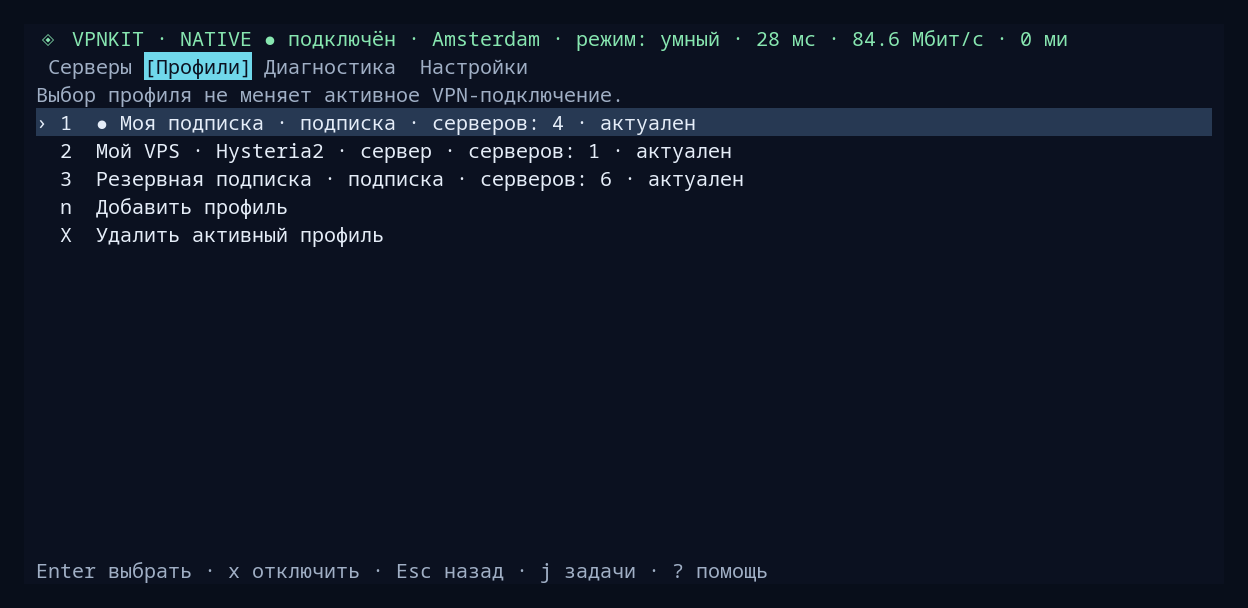
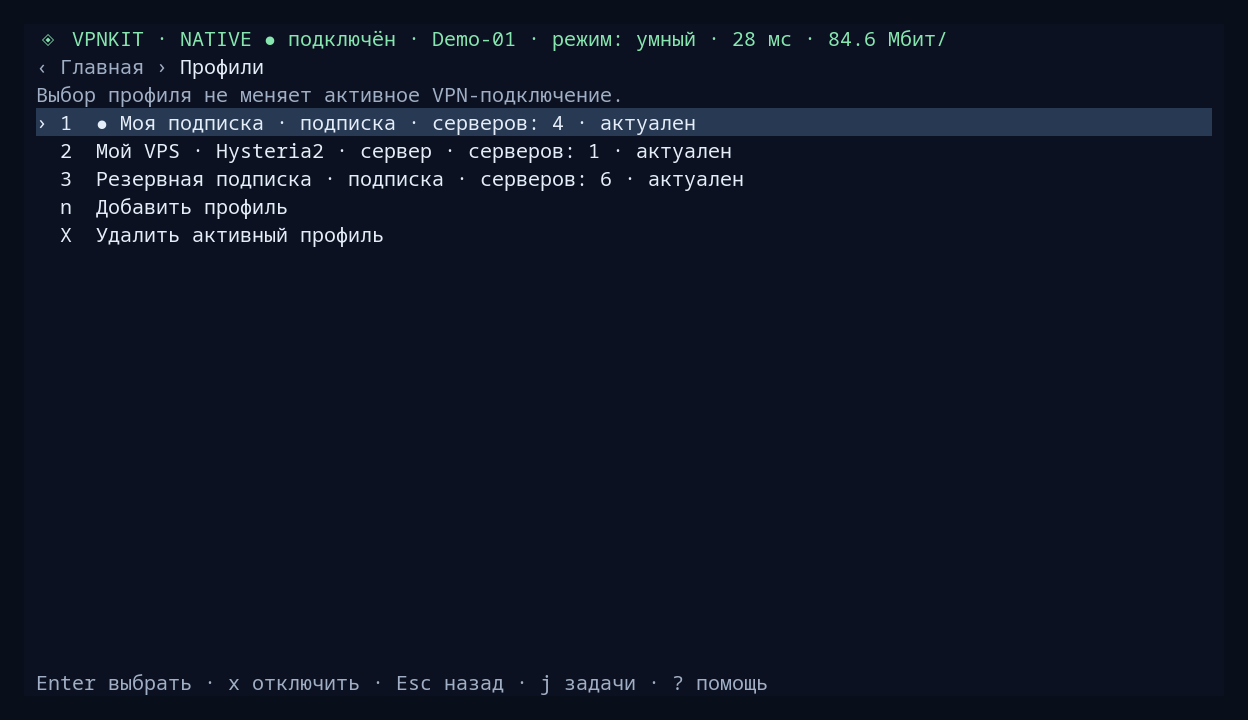
docs: update TUI navigation and screenshots

diff --git a/scripts/vpnkit/tui/capture-readme.ts b/scripts/vpnkit/tui/capture-readme.ts
@@ -1,6 +1,7 @@
 // Render the real App with public demonstration data; never opens a backend.
-// bun capture-readme.ts OUTPUT_DIRECTORY, then python3 ../../../docs/render-tui-captures.py OUTPUT_DIRECTORY
-import { mkdir } from "node:fs/promises";
+// bun capture-readme.ts OUTPUT_DIRECTORY [PNG_DIRECTORY]
+import { copyFile, mkdir, readFile } from "node:fs/promises";
+import { resolve } from "node:path";
 import { createTestRenderer } from "@opentui/core/testing";
 import { App } from "./app";
 import type { Backend, Reply, Server, Status } from "./bridge";
@@ -9,7 +10,7 @@ if (!output) throw new Error("Expected capture output directory");
 await mkdir(output, { recursive: true });
 const status: Status = { runtime:"native", installed:true, vpn_state:"active", gateway_state:"healthy", subscription:"configured", routing_mode:"smart", networkmanager_configured:"yes", networkmanager_active:"yes", diagnostics:"ok" };
 const servers: Server[] = [
-  ["Amsterdam", 28, 84.6], ["Frankfurt", 35, 72.3], ["Helsinki", 42, 61.8], ["Tokyo", 186, 39.4],
+  ["Demo-01", 28, 84.6], ["Demo-02", 35, 72.3], ["Demo-03", 42, 61.8], ["Demo-04", 186, 39.4],
 ].map(([name, latency, speed], i) => ({ profile_id:"demo-subscription", server_id:`srv_${String(i+1).repeat(27)}`, display_name:String(name), selected:i===0, status:"ready", ping_status:"ready", availability:"ready", latency_ms:Number(latency), download_mbps:Number(speed), download_seconds:3 }));
 const profiles: NonNullable<Reply["profiles"]> = { active:"demo-subscription", items:[
   {id:"demo-subscription",name:"Моя подписка",kind:"subscription",count:4,stale:false},
@@ -21,19 +22,34 @@ const backend: Backend = {
     ...(action.startsWith("servers/") ? {catalog:{status:"ok",servers}} : {})}; },
   async close() {},
 };
-const t = await createTestRenderer({width:100,height:32});
+const t = await createTestRenderer({width:100,height:20});
 const app = new App(t.renderer,backend);
 try {
+  app.target = "";
   await app.perform("status");
   await app.perform("profiles/list");
   await app.perform("servers/list");
-  for (const [name, key] of [["home", ""], ["servers", "v"], ["profiles", "c"]]) {
+  for (const server of app.servers) Object.assign(server, servers.find(item => item.server_id === server.server_id));
+  app.notice = "";
+  app.paint();
+  for (const [name, key] of [["home", ""], ["servers", "v"], ["server-menu", ""], ["profiles", "c"]]) {
     if (name === "profiles") { t.mockInput.pressEscape(); await Bun.sleep(30); }
-    if (key) { t.resize(100, 20); t.mockInput.pressKey(key); }
+    if (key) { t.resize(100, 24); t.mockInput.pressKey(key); }
     await Bun.sleep(40);
-    if (name === "servers") { t.mockInput.pressKey("t"); await Bun.sleep(50); }
+    if (name === "server-menu") { t.mockInput.pressEnter(); await Bun.sleep(40); }
     await t.renderOnce();
     const frame = t.captureSpans();
     await Bun.write(`${output}/${name}.json`, JSON.stringify({ ...frame, lines:frame.lines.map(line => ({spans:line.spans.map(span => ({...span,fg:span.fg.toInts(),bg:span.bg.toInts()}))})) }));
   }
 } finally { await app.close(); }
+
+// Reuse the repository's captureSpans rasterizer for all four frames.
+const rasterizer = await readFile(resolve(import.meta.dir, "../../../docs/render-tui-captures.py"), "utf8");
+const script = rasterizer.replace('("home", "servers", "profiles")', '("home", "servers", "server-menu", "profiles")');
+const result = Bun.spawnSync(["python3", "-c", script, output, "/usr/share/fonts/noto/NotoSansMono-Regular.ttf"], { stdout: "inherit", stderr: "inherit" });
+if (result.exitCode !== 0) throw new Error(`Capture rasterizer failed: ${result.exitCode}`);
+if (process.argv[3]) {
+  await mkdir(process.argv[3], { recursive: true });
+  for (const name of ["home", "servers", "server-menu", "profiles"])
+    await copyFile(`${output}/${name}.png`, `${process.argv[3]}/${name}.png`);
+}

diff --git a/docs/guide.ru.md b/docs/guide.ru.md
@@ -78,10 +78,12 @@ cd local-vpn-kde
 
 ## Первое подключение
 
-1. Нажмите `c` и добавьте первую подписку или одиночную ссылку на сервер. После настройки установленного native `c` открывает профили; их вкладка доступна и через `Tab`.
-2. Откройте **Серверы** (`v`). Для новой подписки обновите список (`r`), затем выберите и примените сервер.
-3. При желании проверьте задержку, сайт или скорость в списке серверов.
-4. Запустите службу, если она остановлена, затем выберите **Подключить VPN** (`s`).
+После запуска открывается главный экран с плитками «Подключение», «Серверы», «Замеры», «Профили», «Диагностика» и «Настройки». Стрелками выберите плитку, `Enter` открывает раздел или выполняет действие подключения; `Esc` возвращает из раздела на главный экран. Вложенные окна и меню сначала закрываются по `Esc`; в таблице серверов эта клавиша сначала очищает фильтр. Строка навигации показывает путь к разделу; `Tab` / `Shift+Tab` переключают разделы «Серверы», «Профили», «Диагностика» и «Настройки».
+
+1. Нажмите `c` и добавьте первую подписку или одиночную ссылку на сервер. После настройки установленного native `c` открывает профили.
+2. Если служба остановлена, запустите её через плитку **Подключение** или `s`. Откройте **Серверы** (`v`); при необходимости обновите список (`r`).
+3. Выберите строку стрелками и нажмите `Enter`. В меню можно проверить ping и сайт, скорость или открыть подробности. Выберите **Выбрать сервер** и подтвердите выбор: по умолчанию выбрано «Нет», стрелки влево/вправо перемещают между кнопками.
+4. Вернитесь на главный экран и выберите **Подключение** или нажмите `s` для подключения VPN.
 
 **«Служба готова» ещё не означает «VPN подключён».** Служба может работать для проверок, пока системное подключение выключено.
 
@@ -91,24 +93,24 @@ cd local-vpn-kde
 | :---: | :--- |
 | `s` / `x` | Запустить службу или подключить VPN / отключить VPN, в зависимости от состояния |
 | `v` | Серверы и их проверки |
-| `c` | Профили в установленном native с настроенной подпиской; иначе редактор подписки |
+| `c` | Профили в установленном native с настроенной подпиской; иначе редактор подписки, если он доступен |
 | `m` | Строгий / умный режим |
 | `a` | Настройки автозапуска |
 | `d` | Диагностика |
 | `i` | Настройки |
-| `Tab` / `Shift+Tab` | Следующая / предыдущая вкладка |
+| `Tab` / `Shift+Tab` | Следующий / предыдущий раздел из четырёх перечисленных выше |
 | `/` | Фильтр имён; `Enter` сохраняет, `Esc` очищает |
 | `p` / `t` | Ping и сайт / скорость и сайт показанных серверов |
-| `T` / `b` | Проверить сервер под курсором / предложить самый быстрый измеренный из показанных |
+| `T` / `b` | Проверить скорость сервера под курсором / предложить самый быстрый измеренный из показанных с подтверждением |
 | `o` / `[` / `]` / `\` | Следующая сортировка / выбрать столбец / обратить направление |
 | `l` | Сведения о сервере под курсором |
 | `:` / `Ctrl+P` | Поиск команд |
 | `j` / `k` | Задачи / отмена операции |
 | `X` | Удалить активный профиль с подтверждением |
-| `z` | Остановить native-службу вместе с VPN |
-| `Esc` / `q` | Назад / выйти из интерфейса |
+| `z` | Остановить службу или Docker вместе с VPN после подтверждения |
+| `?` / `q` | Справка / выход из интерфейса |
 
-Таблица серверов открывается первой; строка состояния показывает выбранный сервер, а нижняя строка — доступные клавиши. Стрелки перемещают курсор, `Enter` выбирает пункт, `?` открывает справку. `a` открывает автозапуск и не выполняет ping. Проверки могут пересекаться или ожидать в очереди; `j` показывает выполняющиеся, ожидающие и завершённые операции. Доступные действия зависят от состояния службы.
+Строка состояния показывает выбранный сервер, а нижняя строка — доступные клавиши. `a` открывает автозапуск и не выполняет ping. Проверки могут пересекаться или ожидать в очереди; `j` показывает выполняющиеся, ожидающие и завершённые операции. Доступные действия и сочетания зависят от раздела и состояния службы.
 
 Настройки автозапуска применяются при следующем входе в KDE. Можно запускать только шлюз либо шлюз с подключением VPN. Отключение автозапуска не разрывает текущее соединение; TUI при входе автоматически не открывается. У Docker уже работающий шлюз также может перезапускаться согласно политике контейнера.
 

diff --git a/README.md b/README.md
@@ -10,7 +10,7 @@ VPN для Linux и KDE · NetworkManager · Native и Docker
 
 </div>
 
-![Главный экран: подключение, умный режим и управление VPN](docs/images/home.png)
+![Главный экран с шестью плитками](docs/images/home.png)
 
 Подписки и одиночные **VLESS / Hysteria2** ссылки, отдельные списки серверов, строгий и умный роутинг, автозапуск и диагностика — из одного TUI.
 
@@ -19,6 +19,8 @@ VPN для Linux и KDE · NetworkManager · Native и Docker
 Проверьте задержку, скорость и доступность нужного сайта перед подключением.
 
 ![Список серверов с результатами проверок](docs/images/servers.png)
+
+![Меню действий для выбранной строки сервера](docs/images/server-menu.png)
 
 Собственная VPS и несколько подписок могут жить рядом. Выбор профиля меняет список серверов; подключение VPN — отдельное действие.
 
@@ -57,13 +59,15 @@ cd local-vpn-kde
 
 ## Начать пользоваться
 
-Нажмите `c`, чтобы настроить первую подписку или ссылку → **`v` Серверы** → выберите сервер → **`s` Подключить VPN**. Если служба остановлена, сначала запустите её той же клавишей. В установленном native с настроенной подпиской `c` открывает профили; их вкладку также можно открыть через `Tab`.
+После запуска открывается главный экран с плитками «Подключение», «Серверы», «Замеры», «Профили», «Диагностика» и «Настройки». Стрелками выберите плитку, `Enter` открывает раздел или выполняет действие подключения; `Esc` возвращает из раздела на главный экран. Вложенные окна и меню сначала закрываются по `Esc`; в таблице серверов эта клавиша сначала очищает фильтр. Строка навигации показывает путь к разделу; `Tab` / `Shift+Tab` переключают разделы «Серверы», «Профили», «Диагностика» и «Настройки».
+
+Для первого подключения нажмите `c` и добавьте подписку или ссылку. Если служба остановлена, запустите её через плитку «Подключение» или `s`. Откройте «Серверы», при необходимости обновите список (`r`), выберите строку и нажмите `Enter`. В меню выберите «Выбрать сервер» и подтвердите: по умолчанию выбрано «Нет», между кнопками перемещают стрелки влево/вправо. Затем вернитесь на главный экран и выберите «Подключение» или нажмите `s`. В установленном native с настроенной подпиской `c` открывает профили.
 
 `m` — режим · `a` — автозапуск · `d` — диагностика · `x` — отключить VPN.
 
-После запуска открывается таблица серверов; `Tab` переключает вкладки «Серверы», «Профили», «Диагностика» и «Настройки». Строка состояния показывает подключение, выбранный сервер и режим. `?` открывает справку, `:` или `Ctrl+P` — поиск команд, `j` — задачи. Проверки могут выполняться параллельно или ждать в очереди; отменить задачу можно в панели задач.
+Строка состояния показывает подключение, выбранный сервер и режим. `?` открывает справку, `:` или `Ctrl+P` — поиск команд, `j` — задачи. Проверки могут выполняться параллельно или ждать в очереди; отменить задачу можно в панели задач.
 
-В таблице `/` фильтрует имена, `Enter` сохраняет фильтр, `Esc` очищает. `p` проверяет ping и сайт, `t` — скорость и сайт показанных серверов; `T` проверяет сервер под курсором, `b` предлагает самый быстрый измеренный среди показанных с подтверждением. `o` меняет сортировку, `[` и `]` выбирают столбец, `\` меняет направление; заголовок столбца также можно нажать мышью. `l` открывает сведения, `i` — настройки; в профилях `X` удаляет активный профиль после подтверждения. `a` открывает автозапуск и не запускает ping.
+В таблице `Enter` открывает меню строки: выбор сервера, ping и сайт, скорость или подробности. `/` фильтрует имена, `Enter` сохраняет фильтр, `Esc` очищает. `p` проверяет ping и сайт, `t` — скорость и сайт показанных серверов; `T` проверяет скорость сервера под курсором, `b` предлагает самый быстрый измеренный среди показанных с подтверждением. `o` меняет сортировку, `[` и `]` выбирают столбец, `\` меняет направление; заголовок столбца также можно нажать мышью. `l` открывает сведения, `i` — настройки; в профилях `X` удаляет активный профиль после подтверждения. `a` открывает автозапуск и не запускает ping.
 
 ## Подробнее
 

diff --git a/docs/guide.en.md b/docs/guide.en.md
@@ -78,10 +78,12 @@ The installer requests administrator access when needed, installs build and runt
 
 ## First connection
 
-1. Press `c` and add the first subscription or an individual server link. Once installed native mode is configured, `c` opens Profiles («Профили»); you can also reach that tab with `Tab`.
-2. Open **Servers** (`v`, «Серверы»). Refresh a new subscription (`r`), then select and apply a server.
-3. Optionally check latency, website access or speed from the server list.
-4. Start the service if it is stopped, then choose **Connect VPN** (`s`, «Подключить VPN»).
+The interface opens on a home screen with Connection («Подключение»), Servers («Серверы»), Measurements («Замеры»), Profiles («Профили»), Diagnostics («Диагностика») and Settings («Настройки») tiles. Use the arrow keys to choose a tile and `Enter` to open a section or perform the connection action; `Esc` returns from a section to home. In nested screens and menus `Esc` closes those first; in the server table it first clears a filter. A breadcrumb shows the path to the section; `Tab` / `Shift+Tab` cycle through Servers, Profiles, Diagnostics and Settings.
+
+1. Press `c` and add the first subscription or an individual server link. Once installed native mode is configured, `c` opens Profiles («Профили»).
+2. If the service is stopped, start it using the **Connection** tile or `s`. Open **Servers** (`v`, «Серверы»); refresh the list if needed (`r`).
+3. Choose a row with the arrows and press `Enter`. The menu can check ping and site, test speed or show details. Choose **Select server** («Выбрать сервер») and confirm: No («Нет») is selected by default, and Left/Right move between the buttons.
+4. Return home and choose **Connection** or press `s` to connect the VPN.
 
 **“Service ready” does not mean “VPN connected.”** The service can run checks while the system VPN connection remains off.
 
@@ -91,24 +93,24 @@ The installer requests administrator access when needed, installs build and runt
 | :---: | :--- |
 | `s` / `x` | Start the service or connect the VPN / disconnect the VPN, depending on state |
 | `v` | Servers and connection checks |
-| `c` | Profiles in installed native mode with a configured subscription; otherwise the subscription editor |
+| `c` | Profiles in installed native mode with a configured subscription; otherwise the subscription editor, if available |
 | `m` | Strict / smart routing |
 | `a` | Autostart settings |
 | `d` | Diagnostics |
 | `i` | Settings |
-| `Tab` / `Shift+Tab` | Next / previous tab |
+| `Tab` / `Shift+Tab` | Next / previous section among the four listed above |
 | `/` | Filter names; `Enter` keeps it, `Esc` clears it |
 | `p` / `t` | Ping and site / speed and site for shown servers |
-| `T` / `b` | Test the row under the cursor / offer the fastest measured shown server |
+| `T` / `b` | Test the speed of the row under the cursor / offer the fastest measured shown server for confirmation |
 | `o` / `[` / `]` / `\` | Cycle sort / choose column / reverse direction |
 | `l` | Details for the row under the cursor |
 | `:` / `Ctrl+P` | Search commands |
 | `j` / `k` | Activity / cancel operation |
 | `X` | Remove the active profile after confirmation |
-| `z` | Stop the native service and its VPN |
-| `Esc` / `q` | Go back / exit the interface |
+| `z` | Stop the service or Docker and the VPN after confirmation |
+| `?` / `q` | Help / exit the interface |
 
-The server table opens first; the status line names the selected server and the footer shows available keys. Arrow keys move the cursor, `Enter` selects and `?` opens help. `a` opens autostart; it does not run ping. Checks can overlap or wait in a queue; `j` shows running, queued and finished operations. Available actions depend on service state.
+The status line names the selected server and the footer shows available keys. `a` opens autostart; it does not run ping. Checks can overlap or wait in a queue; `j` shows running, queued and finished operations. Available actions and shortcuts depend on the section and service state.
 
 Autostart settings apply at the next KDE login. You can start only the gateway or also connect the VPN. Disabling autostart leaves the current connection running; the TUI does not open automatically at login. Docker may also restart an already-running gateway through its container restart policy.
 

diff --git a/README.en.md b/README.en.md
@@ -10,7 +10,7 @@ VPN for Linux and KDE · NetworkManager · Native and Docker
 
 </div>
 
-![Main screen: VPN connection, smart routing and service controls](docs/images/home.png)
+![Home screen with six tiles](docs/images/home.png)
 
 Subscriptions and individual **VLESS / Hysteria2** links, separate server lists, strict and smart routing, autostart and diagnostics — all in one TUI.
 
@@ -19,6 +19,8 @@ Subscriptions and individual **VLESS / Hysteria2** links, separate server lists,
 Check latency, download speed and access to your chosen website before connecting.
 
 ![Server list with connectivity and speed results](docs/images/servers.png)
+
+![Action menu for the selected server row](docs/images/server-menu.png)
 
 Keep your own VPS alongside multiple subscriptions. Selecting a profile changes the server list; connecting the VPN is a separate action.
 
@@ -57,13 +59,15 @@ cd local-vpn-kde
 
 ## Get connected
 
-Press `c` to set up the first subscription or link → **`v` Servers** → select a server → **`s` Connect VPN**. If the service is stopped, start it using the same key first. With a configured subscription, installed native mode uses `c` to open Profiles; you can also reach that tab with `Tab`.
+The interface opens on a home screen with Connection («Подключение»), Servers («Серверы»), Measurements («Замеры»), Profiles («Профили»), Diagnostics («Диагностика») and Settings («Настройки») tiles. Use the arrow keys to choose a tile and `Enter` to open a section or perform the connection action; `Esc` returns from a section to home. In nested screens and menus `Esc` closes those first; in the server table it first clears a filter. A breadcrumb shows the path to the section; `Tab` / `Shift+Tab` cycle through Servers, Profiles, Diagnostics and Settings.
+
+For the first connection, press `c` and add a subscription or link. If the service is stopped, start it using the Connection tile or `s`. Open Servers, refresh the list if needed (`r`), choose a row and press `Enter`. Choose Select server («Выбрать сервер») from the menu and confirm: No («Нет») is selected by default, and Left/Right move between the buttons. Then return home and choose Connection or press `s`. In installed native mode with a configured subscription, `c` opens Profiles.
 
 `m` — routing mode · `a` — autostart · `d` — diagnostics · `x` — disconnect VPN.
 
-The server table opens first. `Tab` cycles through Servers, Profiles, Diagnostics and Settings; the status line shows the connection, selected server and routing mode. `?` opens help, `:` or `Ctrl+P` searches commands, and `j` opens activity. Checks can overlap or wait in a queue; cancel a task from the activity panel.
+The status line shows the connection, selected server and routing mode. `?` opens help, `:` or `Ctrl+P` searches commands, and `j` opens activity. Checks can overlap or wait in a queue; cancel a task from the activity panel.
 
-In the table, `/` filters names, `Enter` keeps the filter and `Esc` clears it. `p` checks ping and website access and `t` checks speed and website access for the shown servers; `T` tests the row under the cursor and `b` offers the fastest measured shown server for confirmation. `o` cycles sort columns, `[` and `]` choose a column, and `\` reverses direction; clicking a header also sorts it. `l` opens server details, `i` opens settings, and `X` removes the active profile after confirmation. `a` opens autostart; it does not run ping.
+In the table, `Enter` opens the row menu: select the server, check ping and site, test speed or show details. `/` filters names, `Enter` keeps the filter and `Esc` clears it. `p` checks ping and website access and `t` checks speed and website access for the shown servers; `T` tests the speed of the row under the cursor and `b` offers the fastest measured shown server for confirmation. `o` cycles sort columns, `[` and `]` choose a column, and `\` reverses direction; clicking a header also sorts it. `l` opens server details, `i` opens settings, and `X` removes the active profile after confirmation. `a` opens autostart; it does not run ping.
 
 ## Learn more
 

diff --git a/docs/images/README.md b/docs/images/README.md
@@ -9,9 +9,7 @@ To regenerate from the repository root (Bun, Python/Pillow and Noto Sans Mono):
 
 ```sh
 (cd scripts/vpnkit/tui && bun install --frozen-lockfile)
-bun scripts/vpnkit/tui/capture-readme.ts .build/readme-captures
-python3 docs/render-tui-captures.py .build/readme-captures /usr/share/fonts/noto/NotoSansMono-Regular.ttf
-cp .build/readme-captures/*.png docs/images/
+bun scripts/vpnkit/tui/capture-readme.ts .build/readme-captures docs/images
 ```
 
 The English README uses the same captures because the current TUI labels are
